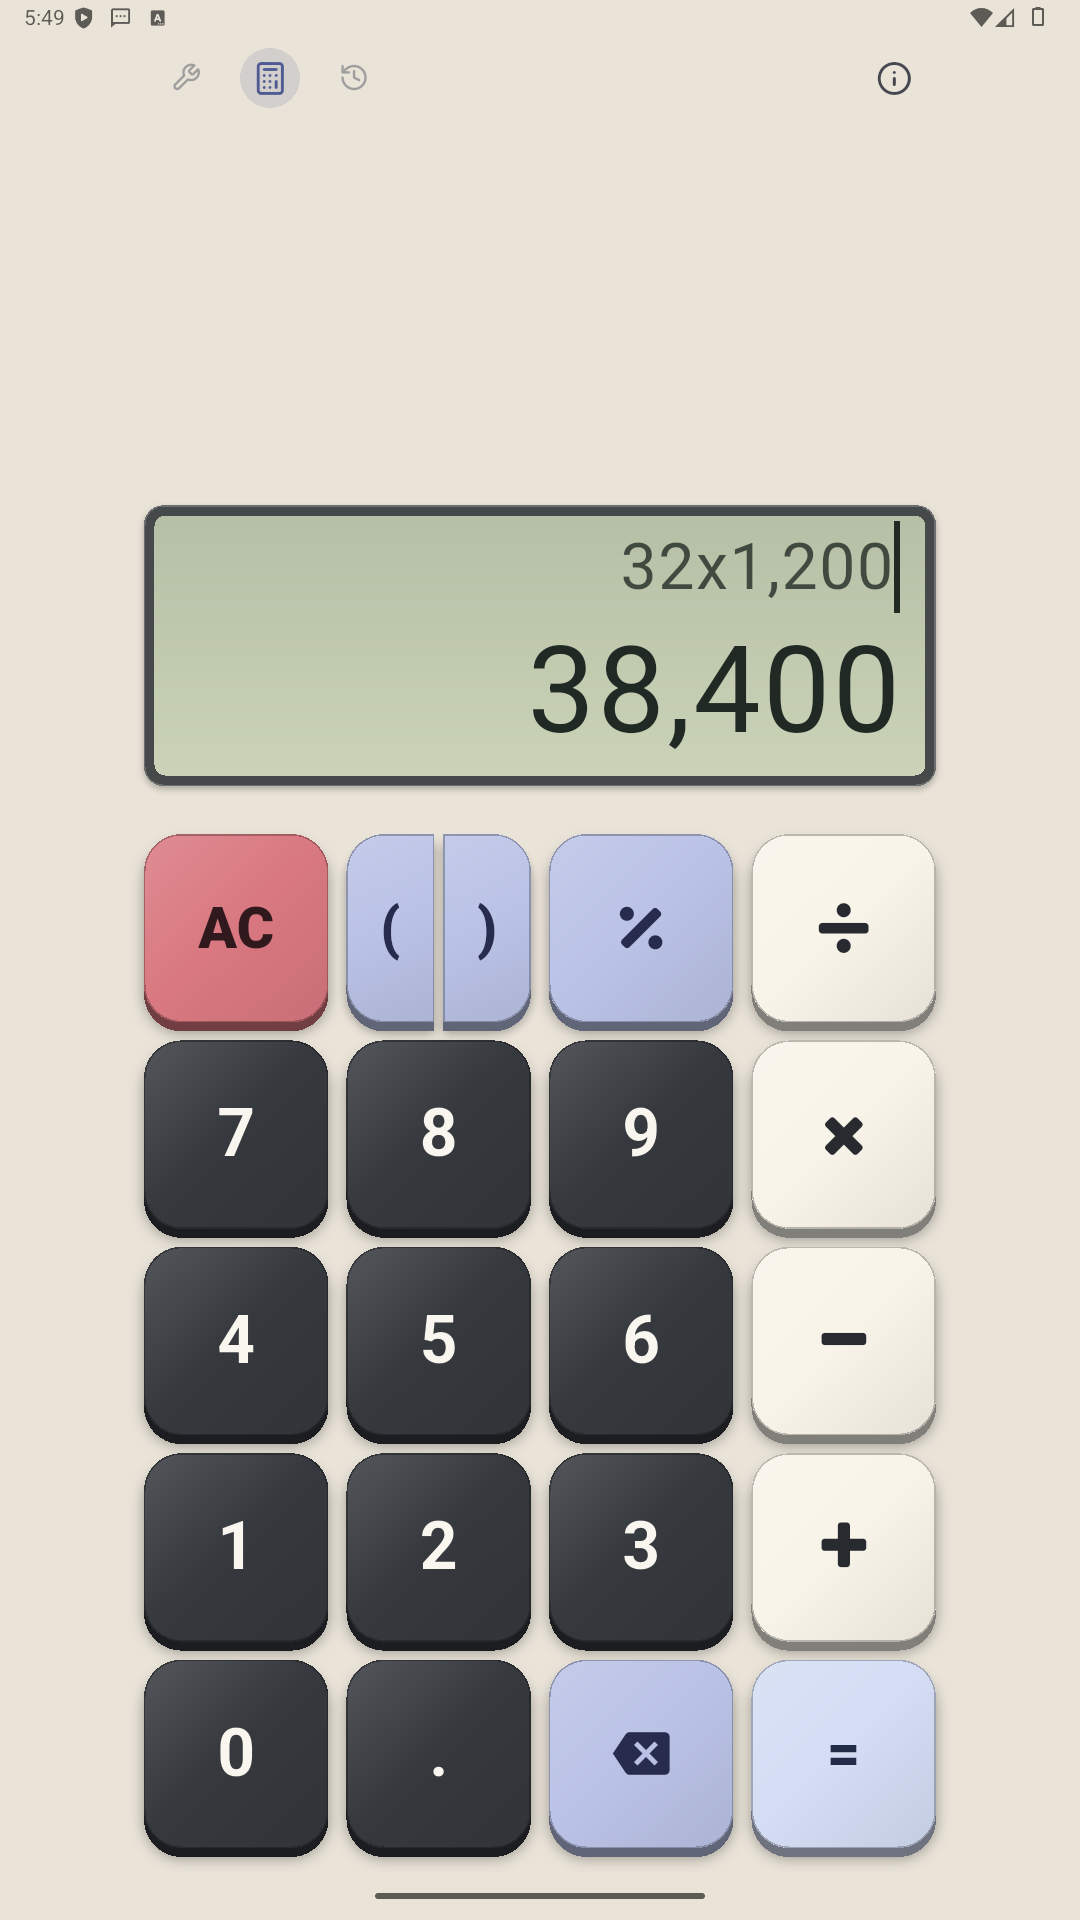
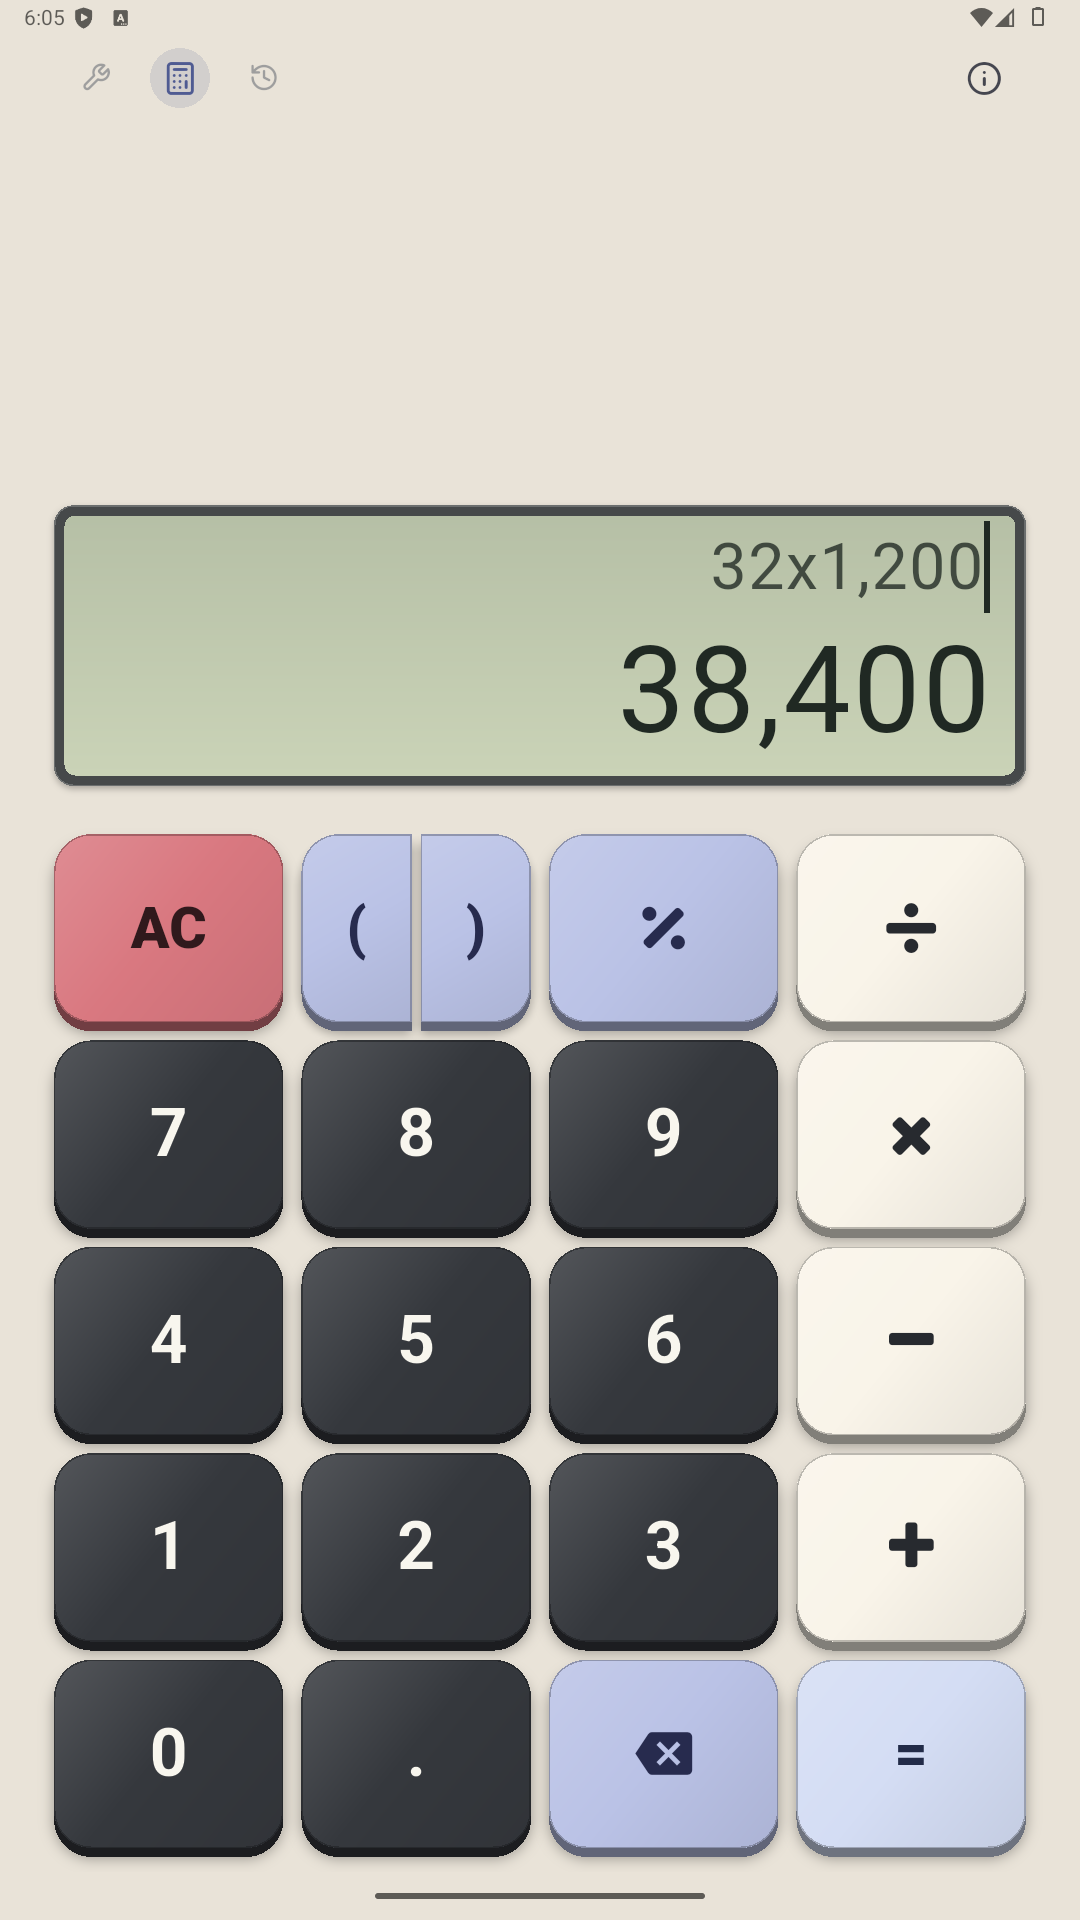
Widen portrait keypad and link to the Keycap Calc repository

diff --git a/lib/widgets/info_dialog.dart b/lib/widgets/info_dialog.dart
@@ -91,19 +91,9 @@ class _InfoDialogState extends State<InfoDialog> with TickerProviderStateMixin {
               style: titleTextStyle,
             ),
           ),
-          PopupMenuButton<String>(
-            tooltip: 'GitHub',
-            onSelected: _openGitHub,
-            itemBuilder: (context) => const [
-              PopupMenuItem(
-                value: AppConst.developerGithubLink,
-                child: Text('GitHub · ${AppConst.developerName}'),
-              ),
-              PopupMenuItem(
-                value: AppConst.upstreamGithubLink,
-                child: Text('Original project · Mohammed Ragheb'),
-              ),
-            ],
+          IconButton(
+            tooltip: 'Keycap Calc on GitHub',
+            onPressed: () => _openGitHub(AppConst.projectGithubLink),
             icon: Lottie.asset(
               githubIconPath,
               width: 50,

diff --git a/lib/screens/dashboard_screen/dashboard_screen.dart b/lib/screens/dashboard_screen/dashboard_screen.dart
@@ -46,7 +46,7 @@ class DashboardScreen extends StatelessWidget {
                           constraints.maxWidth > constraints.maxHeight;
                       final contentWidth = math.min(
                         constraints.maxWidth,
-                        isLandscape ? 1120.0 : 560.0,
+                        isLandscape ? 1120.0 : 680.0,
                       );
                       final availableHeight = constraints.maxHeight;
                       final keypadHeight = isLandscape
@@ -57,7 +57,7 @@ class DashboardScreen extends StatelessWidget {
                               )
                           : math.min(
                               availableHeight * 0.66,
-                              contentWidth * 1.25,
+                              math.min(constraints.maxWidth * 1.25, 700.0),
                             );
 
                       return Column(

diff --git a/lib/utils/const.dart b/lib/utils/const.dart
@@ -4,8 +4,8 @@ class AppConst {
   static const String appName = 'Keycap Calc';
   static const String developerName = 'gospursgo';
   static const String developerGithubLink = 'https://github.com/a114126541';
-  static const String upstreamGithubLink =
-      'https://github.com/mllrr96/Neumorphic-Calculator';
+  static const String projectGithubLink =
+      'https://github.com/a114126541/keycap-calc';
 
   static const String swipeUpGesture = 'assets/lottie/swipe_up.json';
   static const String swipeRightGesture = 'assets/lottie/swipe_right.json';

diff --git a/test/number_pad_test.dart b/test/number_pad_test.dart
@@ -237,6 +237,10 @@ void main() {
     expect(tester.widget<ResultWidget>(find.byType(ResultWidget)).fontScale,
         greaterThan(1.0));
 
+    await tester.binding.setSurfaceSize(const Size(720, 1280));
+    await tester.pumpAndSettle();
+    expect(tester.getSize(find.byType(NumberPad)), const Size(680, 700));
+
     await tester.binding.setSurfaceSize(const Size(700, 280));
     await tester.pumpAndSettle();
     expect(
